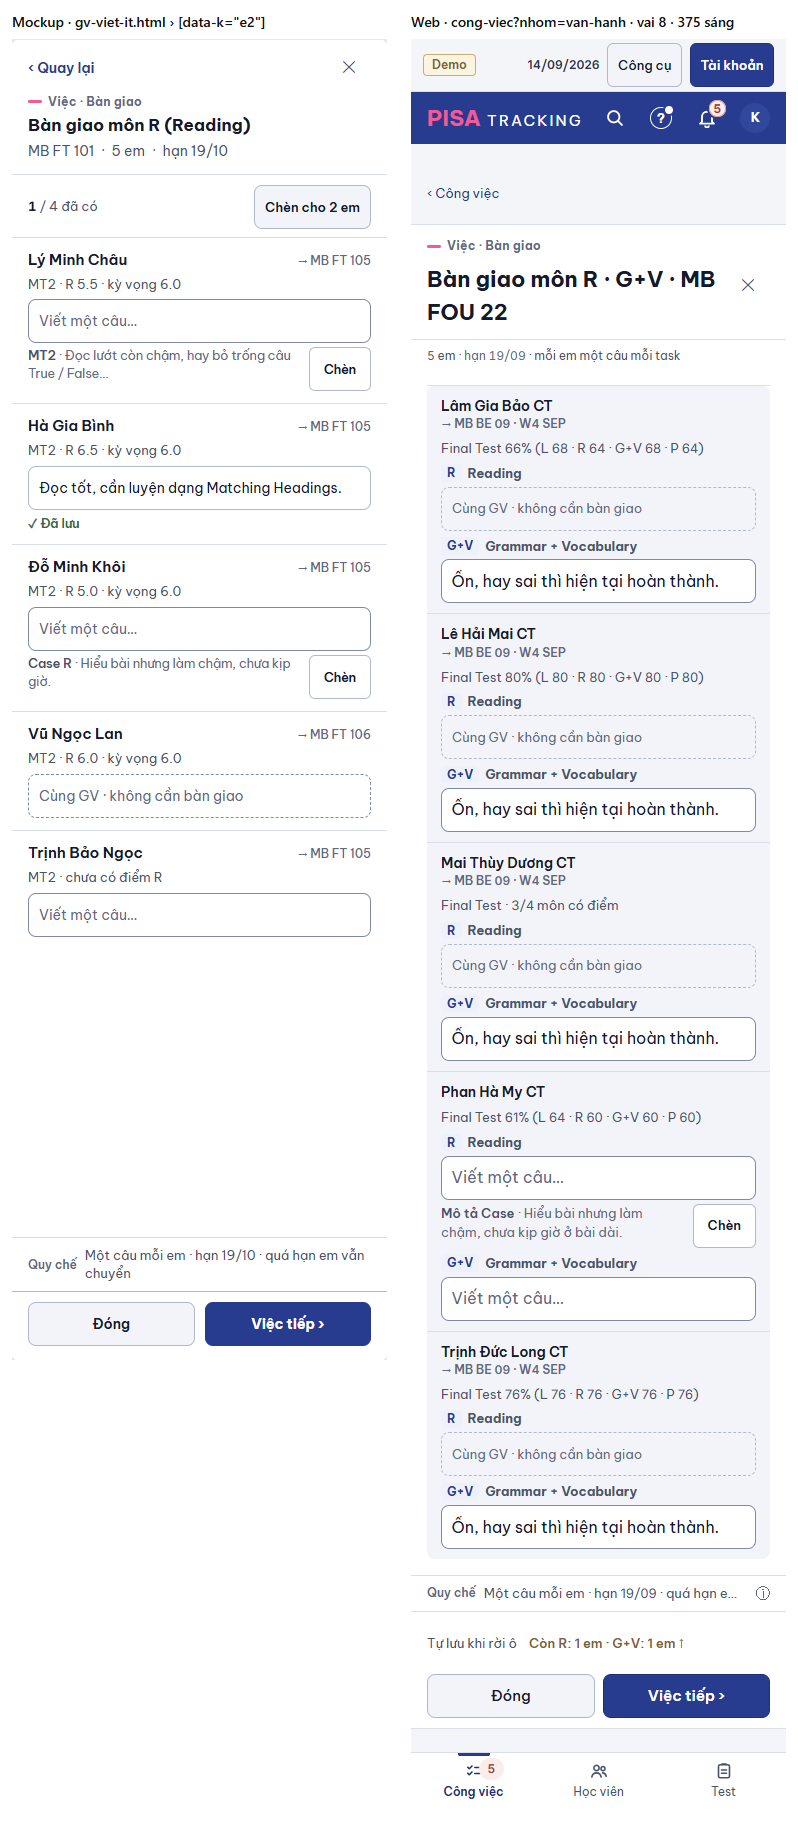
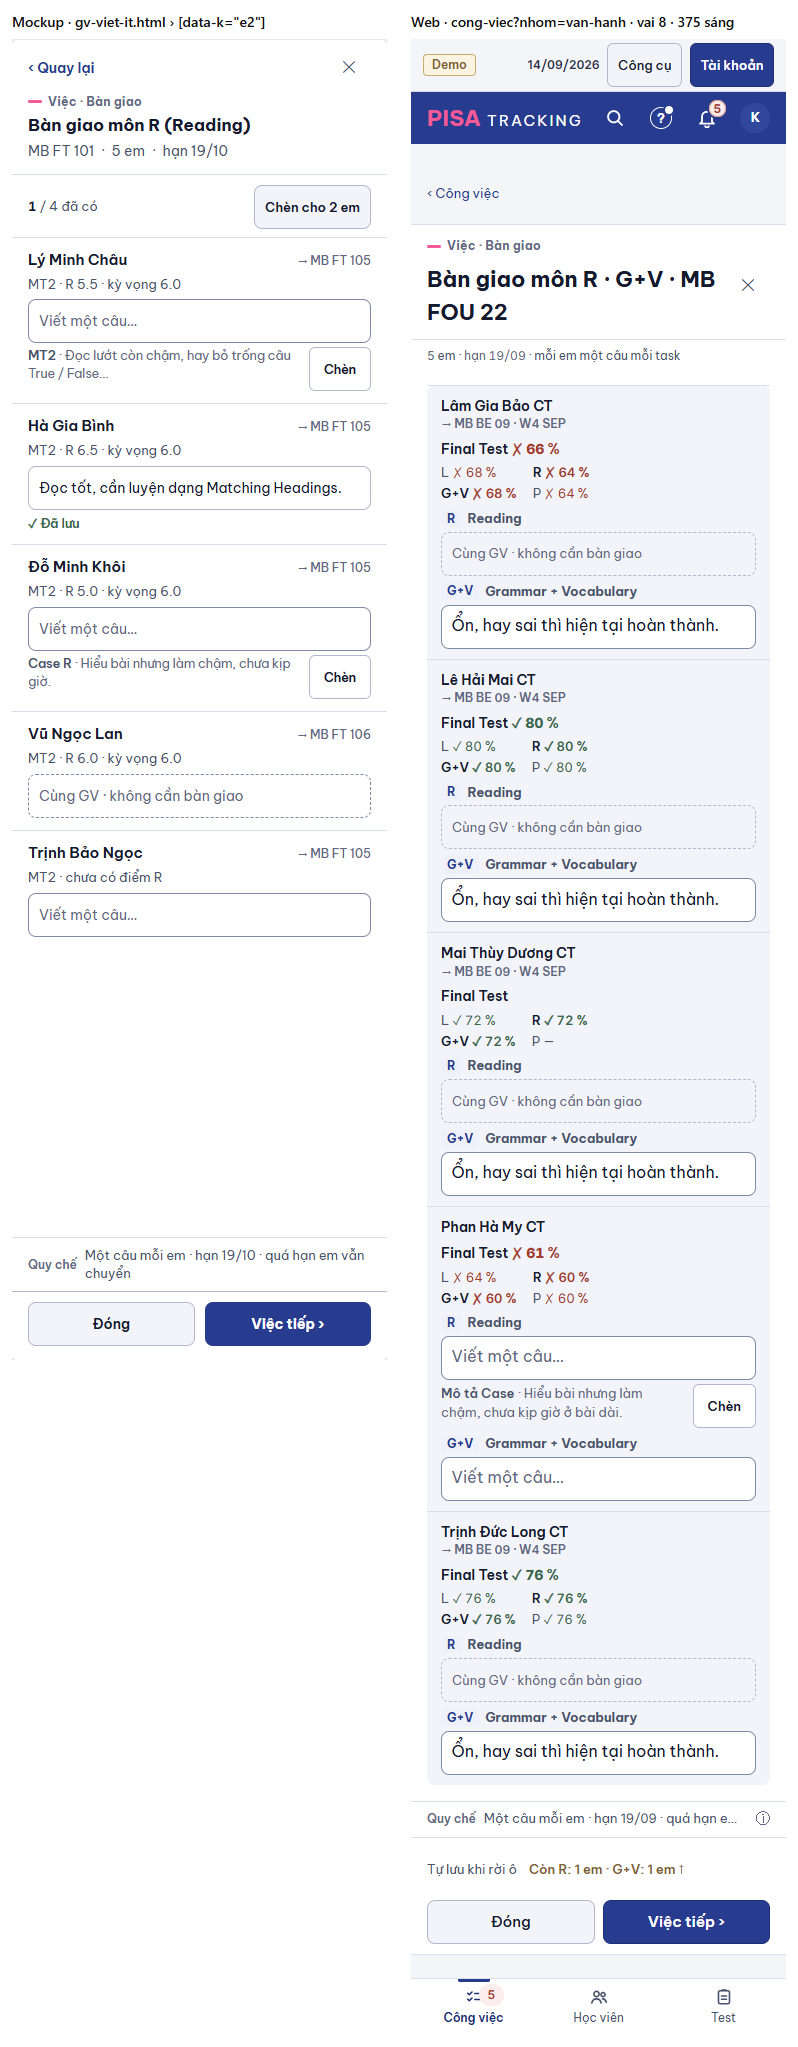
GD-20b (chủ SP duyệt): cột Kết quả bàn giao hai dòng (lượt + tổng ✓/✗, lưới điểm môn), cân cột, ô bàn giao tự giãn không cắt
Lớp thường: diemMon từ chuCuoiKhoaLo / standing đã đọc (0 câu thêm). Chụp lại b1 + e2.

diff --git a/web/src/modules/classes/BanGiaoPanel.tsx b/web/src/modules/classes/BanGiaoPanel.tsx
@@ -11,7 +11,7 @@ import { useNgayNghiepVu } from '../../ui/ngayNghiepVu.ts';
 import { ChuDich } from '../../ui/ChuDich.tsx';
 import { DsEmBanGiao, TuDienEm, useHangLuu } from './banGiaoChung.tsx';
 import { dongSauKhiLuu, type HangLuu } from '../../lib/luuChac.ts';
-import { CHU_CHUYEN_LOP, NHAN_XET_TOI_THIEU, chuDiem, dauDiem, mucDiem, deadlineView, luuRoiTiep, ngay, nhanDocDiem, quyCheBanGiao, shortDate, tuanLich, addDaysIso, cauBanGiao, chuCuaPhan, nguonChuDaGhi, type DuLieuChuDaGhi, type KnDiem, type PhieuBanGiaoDto, type PhieuEm } from '@shared/domain/index.ts';
+import { CHU_CHUYEN_LOP, NHAN_XET_TOI_THIEU, chuDiem, dauDiem, mucDiem, deadlineView, luuRoiTiep, ngay, nhanDocDiem, quyCheBanGiao, shortDate, tuanLich, addDaysIso, cauBanGiao, chuCuaPhan, nguonChuDaGhi, type DiemHv, type DuLieuChuDaGhi, type PhieuBanGiaoDto, type PhieuEm } from '@shared/domain/index.ts';
 import { lopKq } from '../../ui/BieuTuong.tsx';
 import { DaiChenLo, DuoiOChu, KhoiDaGhi, useChen, useChenLo } from '../../ui/KhoiDaGhi.tsx';
 import { useSession } from '../../lib/session.tsx';
@@ -331,6 +331,35 @@ function MasterDetail({ dto, lenhId, chiDoc, onClose, onDone, reload, quayLai, o
 
 // ==================================================================== G · GVBM
 
+/**
+ * Cột "Kết quả" của bảng GVBM (GD-20b, chủ SP duyệt #1745: "cho điểm xuống dòng và làm rõ"): dòng 1 lượt + tổng (Overall / %) đậm, ✓ / ✗ màu như ô điểm;
+ * dòng 2 điểm từng kỹ năng lưới hai cột, chữ số đều, kỹ năng đang bàn giao đậm hơn. Cùng nguồn `diemMon` (FT: kỹ năng bàn giao; lớp thường: mọi môn).
+ */
+function KetQuaBanGiao({ d, monBanGiao }: { d: DiemHv; monBanGiao: readonly string[] }) {
+  const pt = d.soVoi?.nhan === 'ngưỡng' || d.donVi === '%';
+  const datTong = d.overall === null || !d.soVoi ? null : d.overall >= d.soVoi.v;
+  const doc = [d.luot, d.overall === null ? null : `${dauDiem(datTong) ?? ''} ${chuDiem(d.overall, pt)}`.trim(), ...d.kn.map((kn) => nhanDocDiem(kn, d.soVoi))].filter(Boolean).join(' · ');
+  return (
+    <span className="grid gap-1" aria-label={doc}>
+      <span aria-hidden="true" className="text-[14px] font-semibold text-slate-100">
+        {d.luot}{d.tam ? ` · ${t('tạm')}` : ''}
+        {d.overall !== null && <> <b className={`tabular-nums ${datTong === null ? '' : lopKq(mucDiem(datTong, d.overall, d.soVoi?.v))}`}>{dauDiem(datTong) ? `${dauDiem(datTong)} ` : ''}{chuDiem(d.overall, pt)}</b></>}
+      </span>
+      <span aria-hidden="true" className="grid grid-cols-[repeat(2,max-content)] gap-x-4 gap-y-0.5 text-[13px] tabular-nums">
+        {d.kn.map((kn) => {
+          const dang = monBanGiao.includes(kn.k);
+          return (
+            <span key={kn.k} className={dang ? 'font-semibold text-slate-100' : 'text-slate-400'}>
+              {kn.k}{' '}
+              {kn.v === null ? '—' : <span className={kn.dat === null ? '' : lopKq(mucDiem(kn.dat, kn.v, d.soVoi?.v))}>{dauDiem(kn.dat) ? `${dauDiem(kn.dat)} ` : ''}{chuDiem(kn.v, pt)}</span>}
+            </span>
+          );
+        })}
+      </span>
+    </span>
+  );
+}
+
 /** Ô GVBM được mở cùng: GV dạy cả W1 + W2 → hai cột cùng bảng (chủ SP 03/11, mockup v11 đã duyệt); `mon` có thể là "writing1,writing2". */
 function monMo(mon: string | null | undefined, monToi: readonly string[]): string[] {
   const xin = (mon ?? '').split(',').filter((m) => monToi.includes(m));
@@ -437,7 +466,8 @@ function BangGvbm({ dto, mons, lenhId, onClose, onDone, reload, quayLai, onTiep 
     for (const e of dto.ds) for (const m of mons) if (can(e, m) && !daCo(e, m)) { document.getElementById(idO(e.lenhId, m))?.focus(); return; }
   };
   const ngan = (m: string) => dto.lop.mon.find((y) => y.ma === m)?.ngan ?? m;
-  const cot = hai ? 'sm:grid-cols-[200px_150px_minmax(0,1fr)_minmax(0,1fr)]' : 'sm:grid-cols-[minmax(0,1fr)_minmax(0,1.6fr)_minmax(0,2fr)]';
+  /* GD-20b (chủ SP duyệt #1745): Kết quả gọn (hai dòng), Thông tin bàn giao đủ rộng. */
+  const cot = hai ? 'sm:grid-cols-[170px_150px_minmax(0,1fr)_minmax(0,1fr)]' : 'sm:grid-cols-[minmax(0,1fr)_minmax(0,1fr)_minmax(0,2.2fr)]';
   const oTrong = (chuO: string) => (
     <span className="flex min-h-[44px] items-center rounded-lg border border-dashed px-2.5 text-[13px] text-slate-500 sm:min-h-[40px]" style={{ borderColor: 'var(--line-strong)' }}>{chuO}</span>
   );
@@ -492,21 +522,7 @@ function BangGvbm({ dto, mons, lenhId, onClose, onDone, reload, quayLai, onTiep 
                 {e.lopDich && <span className="block text-xs font-semibold text-slate-500">→ {e.lopDich.code} · {tuanLich(e.tuan, homNay)}</span>}</span>
               <span role="cell" className="min-w-0 text-[13px] text-slate-400">
                 {/* Mockup v11: FT — lượt mới nhất + điểm từng cột của bảng (W1 · W2 riêng), ✓ / ✗ so kỳ vọng của lượt; không có thì câu tự điền như cũ. */}
-                {e.diemMon ? (
-                  <span className="tabular-nums" aria-label={[e.diemMon.luot, ...mDs.map((x) => e.diemMon!.kn.find((kn) => kn.k === x.ngan))
-                    .filter((kn): kn is KnDiem => !!kn).map((kn) => nhanDocDiem(kn, e.diemMon!.soVoi))].join(' · ')}>
-                    {e.diemMon.luot}{e.diemMon.tam ? ` · ${t('tạm')}` : ''}
-                    {mDs.map((x) => {
-                      const kn = e.diemMon!.kn.find((y) => y.k === x.ngan);
-                      if (!kn) return null;
-                      return (
-                        <span key={x.ma} aria-hidden="true"> · {kn.k}{' '}
-                          {kn.v === null ? '—' : <b className={kn.dat === null ? 'font-semibold text-slate-200' : lopKq(mucDiem(kn.dat, kn.v, e.diemMon!.soVoi?.v))}>{dauDiem(kn.dat) ? `${dauDiem(kn.dat)} ` : ''}{chuDiem(kn.v)}</b>}
-                        </span>
-                      );
-                    })}
-                  </span>
-                ) : e.tuDien?.ketQua ? dich(e.tuDien.ketQua) : '—'}
+                {e.diemMon ? <KetQuaBanGiao d={e.diemMon} monBanGiao={mDs.map((x) => x.ngan)} /> : e.tuDien?.ketQua ? dich(e.tuDien.ketQua) : '—'}
               </span>
               {mons.map((m, i) => {
                 const om = oMon(e, m);
@@ -517,7 +533,10 @@ function BangGvbm({ dto, mons, lenhId, onClose, onDone, reload, quayLai, onTiep 
                     {hai && <span className="mb-1 flex items-center gap-1.5 text-[13px] font-bold text-slate-400 sm:hidden"><span className="rounded bg-[color:var(--accent-soft)] px-1.5 text-[12px] font-bold text-[color:var(--accent)]">{mDs[i].ngan}</span>{mDs[i].ten}</span>}
                     {!om ? oTrong(hai ? t('Không học {mon}', { mon: mDs[i].ngan }) : t('Không học {mon} · không cần bàn giao', { mon: mDs[i].ngan }))
                       : om.cungGv && !cu ? oTrong(t('Cùng GV · không cần bàn giao')) : <>
-                      <input id={idO(e.lenhId, m)} className="field w-full sm:h-10 sm:text-[15px]" maxLength={300} readOnly={khoa} autoComplete="off"
+                      {/* GD-20b (chủ SP duyệt #1745): ô tự giãn theo chữ, xuống dòng — không cắt câu. Một câu: Enter không xuống dòng. */}
+                      <textarea id={idO(e.lenhId, m)} rows={1} className="field block w-full resize-none overflow-hidden leading-normal sm:text-[15px]" maxLength={300} readOnly={khoa} autoComplete="off"
+                        ref={(el) => { if (el) { el.style.height = 'auto'; el.style.height = `${el.scrollHeight + 2}px`; } }}
+                        onKeyDown={(ev) => { if (ev.key === 'Enter') ev.preventDefault(); }}
                         aria-label={hai ? `${mDs[i].ngan} · ${e.ten}` : t('Bàn giao môn {mon} của {ten}', { mon: mDs[i].ngan, ten: e.ten })}
                         aria-invalid={s0?.tt === 'loi'} aria-describedby={s0?.tt === 'loi' ? `${idO(e.lenhId, m)}-loi` : undefined}
                         placeholder={t('Viết một câu…')} value={chu[k(e, m)] ?? cu}

diff --git a/server/src/classes/banGiao.ts b/server/src/classes/banGiao.ts
@@ -124,10 +124,10 @@ export const cungGvTheoLo = (lenh: readonly { id: number; lop_nguon_id: number; 
  * PR-S5F-a (T58): dòng "Kết quả" của phiếu. Lớp thường: % Cuối khoá (`chuCuoiKhoaLo` — đọc được cả sau khi em đã chuyển đi); chưa có bài Cuối khoá
  * thì dòng kết quả gần nhất KHÔNG kèm nhãn SOS (lớp thường không dùng mức SOS). FT: dòng kết quả như cũ.
  */
-function ketQuaTheoLo(nguon: { id: number; ct: string | null }, sids: readonly number[], giu?: Map<number, Standing>): Map<number, string> {
+function ketQuaTheoLo(nguon: { id: number; ct: string | null }, sids: readonly number[], giu?: Map<number, Standing>, giuDiem?: Map<number, DiemHv>): Map<number, string> {
   const out = new Map<number, string>();
   const thuong = !!programmeOf(nguon.ct) && programmeOf(nguon.ct) !== 'FT';
-  const ck = thuong ? chuCuoiKhoaLo(nguon.id, sids) : new Map<number, string>();
+  const ck = thuong ? chuCuoiKhoaLo(nguon.id, sids, giuDiem) : new Map<number, string>();
   const con = sids.filter((s) => !ck.has(s));
   const standing = con.length ? standingFor([...con]) : new Map<number, Standing>();
   for (const [k, v] of standing) giu?.set(k, v);
@@ -141,12 +141,14 @@ function ketQuaTheoLo(nguon: { id: number; ct: string | null }, sids: readonly n
 /** Kết quả gần nhất · Case đang mở + người nhận gợi ý · Ý thức · việc còn dở của MỌI em một lần (không hỏi lại theo em). Mọi lệnh cùng MỘT lớp nguồn. */
 export function tuDienTheoLo(nguon: { id: number; ct: string | null }, ds: { id: number; student_id: number; lop_dich_id: number | null }[],
   /** Nơi gọi cần lại `standing` vừa tính (điểm từng môn của phiếu) — giữ vào đây, không tính lại. */
-  giuStanding?: Map<number, Standing>): Map<number, TuDien> {
+  giuStanding?: Map<number, Standing>,
+  /** GD-20b: điểm Cuối khoá có cấu trúc (lớp thường đã thi Final) — cột Kết quả bảng GVBM. */
+  giuDiem?: Map<number, DiemHv>): Map<number, TuDien> {
   const out = new Map<number, TuDien>();
   if (!ds.length) return out;
   const conn = db();
   const sids = [...new Set(ds.map((l) => l.student_id))];
-  const ketQua = ketQuaTheoLo(nguon, sids, giuStanding);
+  const ketQua = ketQuaTheoLo(nguon, sids, giuStanding, giuDiem);
   const yt = trangThaiYThuc(sids);
   const cases: { id: number; student_id: number; title: string | null; category: string | null; owner: string | null }[] = [];
   theoLo(sids, (lo, ph) => {
@@ -263,7 +265,8 @@ function phieuBanGiaoGoc(p: Principal, f: { lopNguonId?: number; lenhId?: number
   const cung = cungGvTheoLo(thay);
   const chuaXacNhan = thay.filter((r) => !r.xac_nhan_luc);
   const stEm = new Map<number, Standing>();
-  const tuDien = tuDienTheoLo({ id: lopId, ct }, chuaXacNhan, stEm);
+  const diemCk = new Map<number, DiemHv>();
+  const tuDien = tuDienTheoLo({ id: lopId, ct }, chuaXacNhan, stEm, diemCk);
   /*
    * Cột "Kết quả" của bảng GVBM (mockup v11, chủ SP duyệt 03/11): FT — điểm TỪNG môn (W1 · W2 riêng) của lượt mới nhất có điểm, ✓ / ✗ so kỳ vọng của
    * chính lượt đó. `standing` đã tính ở phần tự điền; thêm MỘT câu đọc điểm các lượt đó cho cả phiếu. Phiếu đã xác nhận đọc bản chụp → không có.
@@ -272,6 +275,9 @@ function phieuBanGiaoGoc(p: Principal, f: { lopNguonId?: number; lenhId?: number
   const diemLuot = luotSt.length ? diemCuaLuot(luotSt) : new Map<number, { skill: string; band: number | null }[]>();
   const diemMonCua = (sid: number, mons: readonly string[]): DiemHv | null => {
     const st = stEm.get(sid);
+    /* GD-20b (chủ SP duyệt #1745: "cho điểm xuống dòng, làm rõ"): lớp thường — lượt + % tổng + % từng môn, ✓ / ✗ theo ngưỡng; từ `standing` đã tính (0 câu thêm). */
+    if (diemCk.has(sid)) return diemCk.get(sid)!;   // đã thi Cuối khoá: lượt Final, % tổng + từng môn, ✓ / ✗ theo ngưỡng
+    if (st?.mode === 'ratio') return diemTuStanding(st);
     const goc = st && st.mode === 'ielts_band' ? diemTuStanding(st) : null;
     if (!st || !goc) return null;
     const kv = st.expectation;

diff --git a/server/src/normal/cuoiKhoa.ts b/server/src/normal/cuoiKhoa.ts
@@ -1,7 +1,7 @@
 import { DS_JSON, THAM_SO_TOI_DA, chenNhieuDong, db, theoLo, theoLoJson, tx } from '../db.ts';
 import { datLaiHanKhiChuyenLop } from '../cases/hanChuyenLop.ts';
 import { LUOT_LO_TRINH_CUOI_SQL } from '../students/tamDung.ts';
-import { cauHinh, viecKhiChot, CASE_OUTCOME_LABEL, nguongMiniTest, PERMISSIONS, tuanMuonNhatMt0, laLanGhiCuoi, laPaBoTro, caseDedupKey, categoryOf, chuHopKetLuan, coBaoPhKhiChot, coBoTroKhiChot, chuMonTruot, goiYCuoiKhoa, kyHieuLop, kyNangLopDich, lichBoTro, ngay, tenMon, hanKyGhiKetQua, type BoTroMienPhi, type GoiYCuoiKhoa, type RegularSkill, MON_GOP, boMonTheoLuot, daGhiLuot } from '../../../shared/domain/index.ts';
+import { nhanDot, tenMonNgan, type DiemHv, cauHinh, viecKhiChot, CASE_OUTCOME_LABEL, nguongMiniTest, PERMISSIONS, tuanMuonNhatMt0, laLanGhiCuoi, laPaBoTro, caseDedupKey, categoryOf, chuHopKetLuan, coBaoPhKhiChot, coBoTroKhiChot, chuMonTruot, goiYCuoiKhoa, kyHieuLop, kyNangLopDich, lichBoTro, ngay, tenMon, hanKyGhiKetQua, type BoTroMienPhi, type GoiYCuoiKhoa, type RegularSkill, MON_GOP, boMonTheoLuot, daGhiLuot } from '../../../shared/domain/index.ts';
 import { addDays, badRequest, canXacNhan, forbidden, isIsoDate, notFound, nowIso, loi } from '../util.ts';
 import { can, isCoreTeacherOf, type Principal } from '../permissions.ts';
 import { demoToday } from '../demoConfig.ts';
@@ -104,7 +104,9 @@ function tinhTyLeTongLo(attemptIds: readonly number[]): Map<number, TyLeLuot> {
  * PR-S5F-a (T58): chữ kết quả Cuối khoá — `Cuối khoá 66% (L 70 · R 58 · G+V 66 · P 62)` — của nhiều em ở MỘT lớp thường, KỂ CẢ em đã chuyển đi
  * (phiếu bàn giao đọc sau khi chuyển, thẻ kết quả ở hồ sơ). Cùng hàm chữ với hộp Kết luận khoá. Em chưa có bài Cuối khoá → không có trong kết quả.
  */
-export function chuCuoiKhoaLo(classId: number, sids: readonly number[]): Map<number, string> {
+export function chuCuoiKhoaLo(classId: number, sids: readonly number[],
+  /** GD-20b (chủ SP duyệt #1745): điểm có cấu trúc của cùng lượt Final (cột Kết quả bảng bàn giao) — từ dữ liệu vừa đọc, 0 câu thêm. */
+  giuDiem?: Map<number, DiemHv>): Map<number, string> {
   const out = new Map<number, string>();
   const luot = new Map<number, number>();
   theoLo([...new Set(sids)], (lo, ph) => {
@@ -122,6 +124,12 @@ export function chuCuoiKhoaLo(classId: number, sids: readonly number[]): Map<num
       goiY: goiYCuoiKhoa({ ct: x.ct, tyLe: x.tyLe, monTruot: x.monTruot, nguong: x.nguong, moc: x.mocNguong }), quyetDinh: null, ketLuanFt: null,
     });
     out.set(sid, h.phu ? `${h.chinh} (${h.phu})` : h.chinh);
+    giuDiem?.set(sid, {
+      luot: nhanDot('final', null), tuan: null, tam: false, donVi: '%',
+      overall: x.tyLe === null ? null : Math.round(x.tyLe * 100),
+      soVoi: { nhan: 'ngưỡng', v: Math.round(x.nguong * 100) },
+      kn: x.mon.map((m) => ({ k: tenMonNgan(x.ct, m.skill), v: m.ratio === null ? null : Math.round(m.ratio * 100), dat: m.ratio === null ? null : !x.monTruot.includes(m.skill) })),
+    });
   }
   return out;
 }

diff --git a/docs/anh/gd20b-ban-giao-chen/khop-khac.md b/docs/anh/gd20b-ban-giao-chen/khop-khac.md
@@ -49,6 +49,13 @@ B2 (dải sau "Chèn cho n em" ở bảng GVBM): seed chỉ có một ô GVBM kh
 - Chân bảng GVBM: mở từ Công việc (có việc kế) → "Việc tiếp ›" luôn là nút chính bên phải (trước: nút thường khi còn em thiếu); mở từ hồ sơ lớp → chỉ "Đóng". Chụp lại b1 + e2 từ Công việc.
 - Tiêu đề panel 375 bị cắt "… MB F…" (PTA: sửa luôn): `KhungPanel` đầu panel dạng thường — < 640 px tiêu đề xuống dòng, không "…", ✕ cùng hàng góc phải trên; ≥ 640 một dòng như cũ. Soi 3 panel 375: Bàn giao môn R · G+V · MB FOU 22 (2 dòng) · Bàn giao MB FT 101 · R cho Phạm Thu Trang (2 dòng) · Báo cáo PH · MB FT 101 · Nhận xét chung (1 dòng, ✕ ở hàng "‹ Quay lại") — không panel nào còn cắt. Chụp lại e2.
 
+## Sửa theo chủ SP (duyệt #1745: "cho điểm xuống dòng và làm rõ")
+- Cột Kết quả bảng GVBM: dòng 1 lượt + tổng đậm, ✓ / ✗ màu như ô điểm ("Final Test ✗ 66 %"); dòng 2 điểm từng môn lưới hai cột, chữ số đều, môn đang bàn giao đậm (`KetQuaBanGiao`). Lớp thường: máy chủ trả điểm có cấu trúc (`diemMon`) — đã thi Cuối khoá lấy từ chính dữ liệu `chuCuoiKhoaLo` vừa đọc, chưa thi lấy `standing` đã tính → 0 câu thêm. FT giữ kỹ năng bàn giao, thêm Overall ở dòng 1.
+- Độ rộng cột: Kết quả bớt (một cột: 1 · 1 · 2,2 phần; hai cột: 170 · 150 · còn lại), Thông tin bàn giao rộng hơn.
+- Ô bàn giao thành ô tự giãn (textarea một dòng tự cao theo chữ), không cắt câu; Enter không xuống dòng (một câu).
+- Panel GVCN / đổi GV: Kết quả nằm trong "Tự điền · chỉ đọc" (thành phần khác, câu chữ) — không đổi ở PR này.
+- Chụp lại b1 + e2.
+
 ## Máy chủ
 - `POST /lenh-chuyen/:id/ban-giao-mon/go-chen` · `POST /ban-giao-gv/:id/gop-y/go-chen`: Hoàn tác "Chèn cho n em" — máy chủ không nhận câu rỗng nên cần đường gỡ. Cùng quyền ghi; chỉ xoá khi câu đang lưu ĐÚNG bằng câu vừa chèn (đã sửa → giữ, `ok: false`); có nhật ký (`ban_giao.go_chen`, `ban_giao_gv.go_chen`). Nhận xét chung GVCN: dùng đường nháp sẵn có (nhận rỗng).
 
